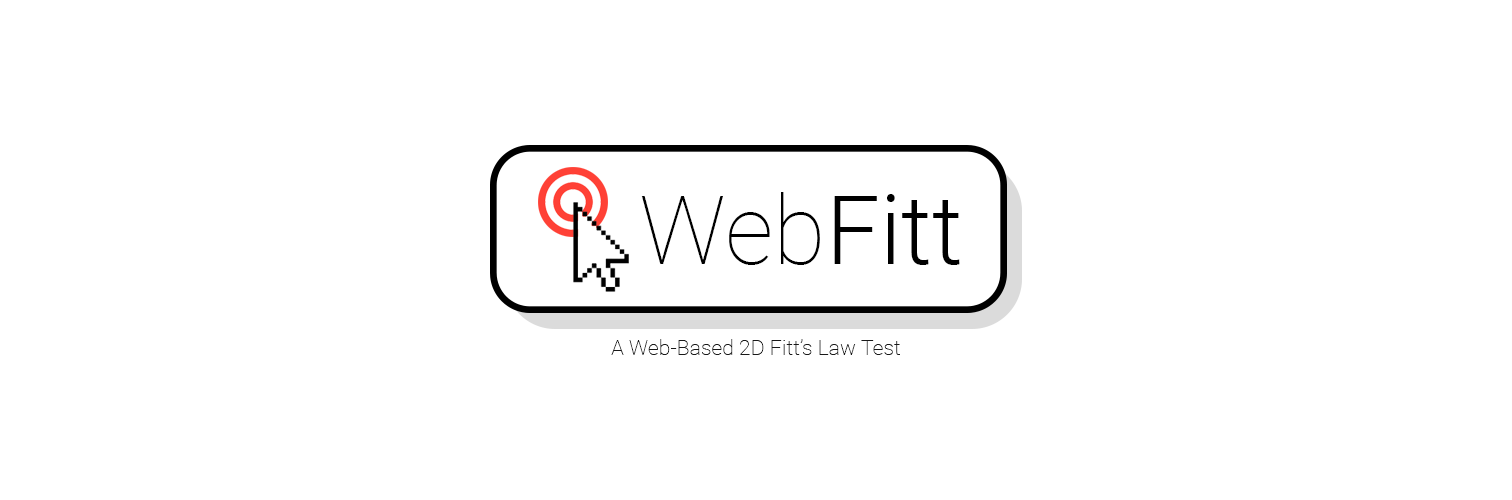
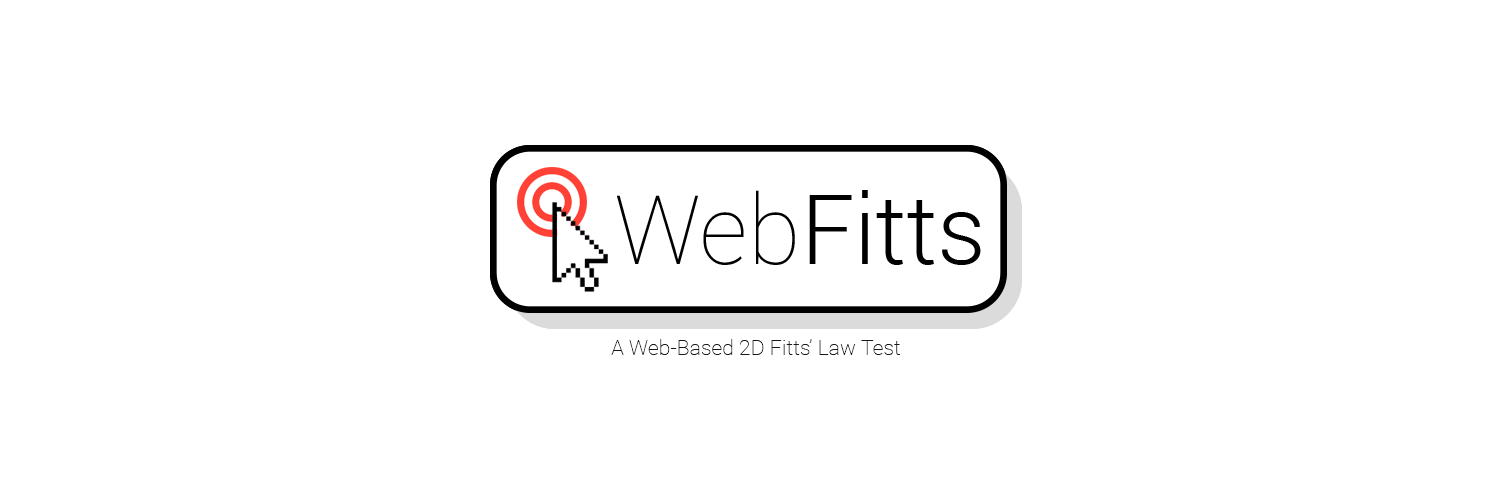
fixed project name

Changed region(s): [[0.3419, 0.33, 0.6528, 0.6]]

diff --git a/README.md b/README.md
@@ -1,38 +1,38 @@
-# WebFitt
+# WebFitts
 
 <p align="center">
   <img src="https://github.com/adildsw/WebFitt/blob/main/assets/banner_alt_zoomed.png" />
 </p>
 
-_WebFitt_ is a web-based Fitts' law testing application inspired by Scott MacKenzie's [GoFitts](http://www.yorku.ca/mack/FittsLawSoftware/) application.
+_WebFitts_ is a web-based Fitts' law testing application inspired by Scott MacKenzie's [GoFitts](http://www.yorku.ca/mack/FittsLawSoftware/) application.
 
 ## Getting Started
-You can get _WebFitt_ up and running on your system by following the instructions below!
+You can get _WebFitts_ up and running on your system by following the instructions below!
 
 ### Prerequisites
-In order to run _WebFitt_, please make sure your device meets the following requirements:
+In order to run _WebFitts_, please make sure your device meets the following requirements:
 
 ##### 1. **[Python 3.6+](https://www.python.org/downloads/)** ([Anaconda](https://www.anaconda.com/products/individual) distribution recommended)
 ##### 2. **[Flask](https://pypi.org/project/Flask/)** (included in the [Anaconda](https://www.anaconda.com/products/individual) distribution)
 ##### 3. **[Pandas](https://pypi.org/project/pandas/)** (included in the [Anaconda](https://www.anaconda.com/products/individual) distribution)
 
-### Running WebFitt
-Once all the prerequisites are met, you can now run _WebFitt_ by following the instructions below:
+### Running WebFitts
+Once all the prerequisites are met, you can now run _WebFitts_ by following the instructions below:
 
-#### 1. Clone WebFitt repository to your local system.
+#### 1. Clone WebFitts repository to your local system.
 Open terminal and type the following command:
 ```
-git clone https://github.com/adildsw/WebFitt
+git clone https://github.com/adildsw/WebFitts
 ```
 
 #### 2. Navigate to the cloned directory.
 In the terminal, type the following command:
 ```
-cd WebFitt
+cd WebFitts
 ```
 
-#### 3. Hosting WebFitt
-Once in the _WebFitt_ directory, you can host the _WebFitt_ web application in the localhost by typing the following command in the terminal:
+#### 3. Hosting WebFitts
+Once in the _WebFitts_ directory, you can host the _WebFitts_ web application in the localhost by typing the following command in the terminal:
 ```
 python app.py
 ```
@@ -45,43 +45,39 @@ Upon successful server hosting, the terminal/command prompt should return the fo
 * Debug mode: off
 * Running on http://127.0.0.1:5000/ (Press CTRL+C to quit)
 ```
-_WebFitt_ can now be launched by opening any browser and entering the address `http://127.0.0.1:5000`
-
-<!-- ![WebFitt Main Menu Screenshot](https://github.com/adildsw/WebFitt/blob/main/assets/screenshot_main.png)
-![WebFitt Task Screenshot](https://github.com/adildsw/WebFitt/blob/main/assets/screenshot_task.png)
-![WebFitt Result Screenshot](https://github.com/adildsw/WebFitt/blob/main/assets/screenshot_result.png) -->
+_WebFitts_ can now be launched by opening any browser and entering the address `http://127.0.0.1:5000`
 
 <kbd align="center">
-  <img src="https://github.com/adildsw/WebFitt/blob/main/assets/screenshot_main.png" />
+  <img src="https://github.com/adildsw/WebFitt/blob/main/assets/screenshot_main.jpeg" />
 </kbd>
 <kbd align="center">
-  <img src="https://github.com/adildsw/WebFitt/blob/main/assets/screenshot_task.png" />
+  <img src="https://github.com/adildsw/WebFitt/blob/main/assets/screenshot_task.jpeg" />
 </kbd>
 
 <kbd align="center">
-  <img src="https://github.com/adildsw/WebFitt/blob/main/assets/screenshot_result.png" />
+  <img src="https://github.com/adildsw/WebFitt/blob/main/assets/screenshot_result.jpeg" />
 </kbd>
 
 ## Configuration
-_WebFitt_ offers some configurable parameters:
+_WebFitts_ offers some configurable parameters:
 
-### Hosting WebFitt over a network
-_WebFitt_ has the functionality allowing users to host the application in custom address to allow for multi-device access over a network. This can be done by using the `ip` and `port` argument while launching the application.
+### Hosting WebFitts over a network
+_WebFitts_ has the functionality allowing users to host the application in custom address to allow for multi-device access over a network. This can be done by using the `ip` and `port` argument while launching the application.
 ```
 python app.py --ip <IP> --port <PORT>
 ```
 **NOTE:** The default IP is set to `127.0.0.1`, and the default port is set to `5000`.
 
 ### Creating tasks with multiple amplitude and width values
-In order to create tasks with a combination of multiple amplitude and width values, simply write all the amplitude and width values in their respective fields separated by a comma, and _WebFitt_ will create all possible tasks using the (amplitude x width) configurations.
+In order to create tasks with a combination of multiple amplitude and width values, simply write all the amplitude and width values in their respective fields separated by a comma, and _WebFitts_ will create all possible tasks using the (amplitude x width) configurations.
 
 ### Disabling server downloads
-You can configure WebFitt to not save task results on the server setting the `servdown` argument to 0.
+You can configure WebFitts to not save task results on the server setting the `servdown` argument to 0.
 ```
 python app.py --servdown 0
 ```
 ## Result Data Format
-After the completion of every task, _WebFitt_ saves 3 task result files on the client system (and the same files are also stored on the server if _WebFitt_ is configured that way). The file description are differentiated using individual file types:
+After the completion of every task, _WebFitts_ saves 3 task result files on the client system (and the same files are also stored on the server if _WebFitts_ is configured that way). The file description are differentiated using individual file types:
 * _click_ - files of this type contains detailed information of every click made during the task.
 * _task_ - files of this type contains the aggregated information of each task.
 * _overall_ - files of this type contains the aggregated information obtained from all the tasks.
